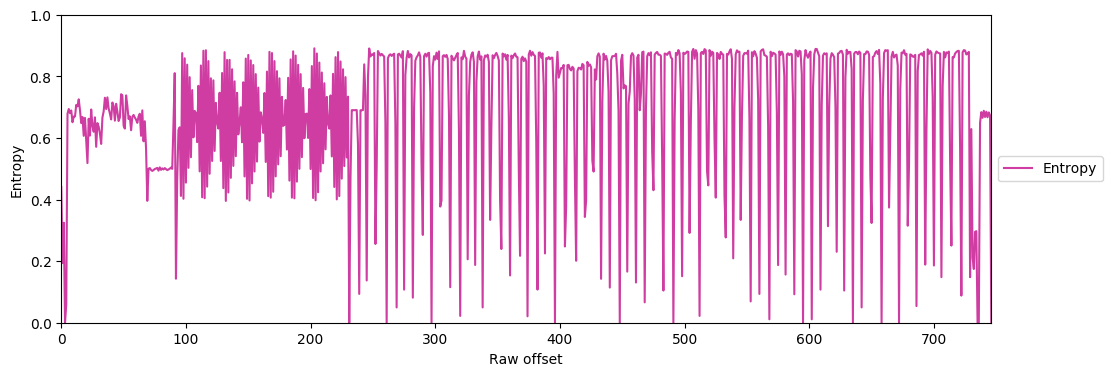
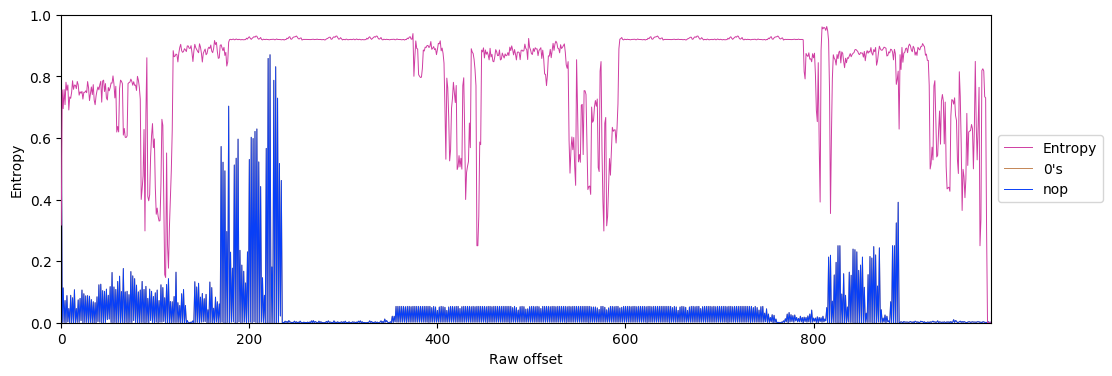
Full file graph working

Changed region(s): [[0.0306, 0.0878, 1.0, 0.9362]]

diff --git a/exeGraph_mpl.py b/exeGraph_mpl.py
@@ -68,6 +68,16 @@ def fix_section_name(section, index):
             s_name = 'unknown_'+str(index)
         return s_name
 
+# Read files as chunks
+def read_f(fh, chunksize=8192):
+    while True:
+        chunk = fh.read(chunksize)
+        if chunk:
+            yield list(chunk)
+        else:
+            break
+
+
 # ## Ent per section
 def section_ent_line(pebin, block_size=100, trend=False):
     # ## blocksize int:   content is divided into blocks, each block is sampled for shannon entropy. More blocks, greater resolution
@@ -138,6 +148,7 @@ def section_byte_occurance_histogram(pebin, fig, ncols=2, ignore_0=True, bins=1,
     # ## log int:       Amount of 'log' to apply to the graph
     # ## ordered bool:  Add an ordered histogram - show overall distribution
 
+
     ignore_0 = int(ignore_0)
 
     for i, section in enumerate(pebin.sections):
@@ -179,42 +190,50 @@ def section_byte_occurance_histogram(pebin, fig, ncols=2, ignore_0=True, bins=1,
     fig.legend(loc='center left', bbox_to_anchor=(1, 0.5))
 
 
-def file_ent(b_array, pebin=None, block_size=100, trend=False):
-
-    data = b_array
-
-    # Calculate the overall ent throughout the file
-    block_len = -(-len(data) // block_size)
+def file_ent(fh, pebin=None, chunksize=100, ibytes={'0\'s':[0], 'ascii':list(range(128))}, trend=False):
 
     shannon_samples = []
+    byte_ranges = dict.fromkeys(ibytes.keys(),[])
+    byte_ranges = {'0s':[], 'nop':[]}   # THIS WORKS!!
 
-    i = 1
-    prev_end = 0
+    i = 0
+
     prev_ent = 0
-    while prev_end <= len(data):
-
-        block_start = prev_end
-        block_end = i * block_len
-
-        real_ent = shannon_ent(data[ block_start : block_end ])
+    for chunk in read_f(fh, chunksize=chunksize):
 
         # Calculate ent
+        real_ent = shannon_ent(chunk)
         ent = statistics.median([real_ent, prev_ent])
         prev_ent = real_ent
         ent = real_ent
         shannon_samples.append(ent)
 
 
-        prev_end = block_end+1
+        # Calculate percentages of given bytes
+        cbytes = Counter(chunk)
+        for label, b_range in ibytes.items():
+
+            occurance = 0
+            for b in b_range:
+                occurance += cbytes[b]
+
+            byte_ranges[label].append(float(occurance)/float(len(chunk)))   ###### THIS ADDS TO THE WRONG RANGES
+
+        print('******** chunk:{}'.format(i))
         i += 1
+
+    # Draw the graphs
+    zorder=99
 
     label = 'Entropy'
     c = section_colour(label)
-    plt.plot(shannon_samples, label=label, c=c)
+    plt.plot(shannon_samples, label=label, c=c, zorder=zorder, linewidth=0.7)
 
 
-    # Get the section offsets and plot on axis
-    # pebin = lief.PE.parse(filename=filename)
+    for label, percentages in byte_ranges.items():
+        zorder -= zorder
+        c = section_colour(label)
+        plt.plot(percentages, label=label, c=c, zorder=zorder, linewidth=0.7)
 
 
 
@@ -228,93 +247,17 @@ def file_ent(b_array, pebin=None, block_size=100, trend=False):
     plt.legend(loc='center left', bbox_to_anchor=(1, 0.5))
 
 
-
-## Occurance per byte
-# def section_byte_occurance_heatmap(pebin):
-#     z = []
-#     y = []
-#     for section in pebin.sections:
-#         row = []
-#         c = Counter(section.content)
-#         for i in range(0, 256):
-#             row.append(c[i])
-#         z.append(row)
-#         y.append(section.name)
-
-#     data = go.Heatmap(
-#         x=['x{:02}'.format(d) for d in range(0, 256)],
-#         y=y,
-#         z=z,
-#         colorscale='Viridis',
-#     )
-
-#     layout = go.Layout(
-#         title='Byte frequency: {}'.format(filename),
-#         xaxis=dict(
-#             title='Byte: x0 to xFF',
-#             ticktext=['x{:02}'.format(d) for d in range(0, 256, 5)],
-#             tickvals=list(range(0, 256, 5)),
-#             tickangle=45,
-#         ),
-#         yaxis=dict(
-#             title='Binary section',
-#             ticktext=[ s.name for s in pebin.sections ],
-#             tickvals=[ s.name for s in pebin.sections ]
-#         )
-#     )
-
-#     return [data], layout
-
-# ## Section size bar chart
-# def section_size_bar(pebin):
-
-#     section_size_bar_raw = go.Bar(
-#         name='Raw size',
-#         x=[section.name for section in pebin.sections],
-#         y=[section.size for section in pebin.sections]
-#     )
-
-#     section_size_bar_virtual = go.Bar(
-#         name='Virtual size',
-#         x=[section.name for section in pebin.sections],
-#         y=[section.virtual_size for section in pebin.sections]
-#     )
-
-#     data = [section_size_bar_raw, section_size_bar_virtual]
-
-#     layout = go.Layout(
-#         barmode='stack',
-#         title='Raw/virtual section sizes: {}'.format(filename),
-#         xaxis=dict(
-#             title='Sections',
-#             zeroline=False
-#         ),
-#         yaxis=dict(
-#             title='Size',
-#             ticklen=5,
-#             nticks=10,
-#             zeroline=False,
-#             type='log',
-#             autorange=True
-#         )
-#     )
-
-#     return data, layout
-
-
-
-
 if __name__ == '__main__':
 
     # ## Input file
     # filename='mal/aa14c8e777-cape'
     # filename='mal/test.exe'
     # filename='mal/Locky.bin.mal'
-    # filename='mal/Shamoon.bin.mal'
+    filename='mal/Shamoon.bin.mal'
     # filename='mal/Win32.Sofacy.A.bin.mal'
     # filename='mal/upxed.exe'
-    filename='mal/cape-9480-d746baede2c7'
-    filename='mal/cape-9472-d69be688e'
+    # filename='mal/cape-9480-d746baede2c7'
+    # filename='mal/cape-9472-d69be688e'
 
 
 
@@ -324,22 +267,25 @@ if __name__ == '__main__':
     fsize = (12,4) # Width, Height
 
 
-    pebin = lief.PE.parse(filename=filename)
 
-
+    # pebin = lief.parse(filepath=filename)
     # plt.figure(figsize=fsize)
     # section_ent_line(pebin, block_size=50, trend=False)
     # plt.savefig(fname='section_ent_line-50.{}'.format(fmt), format=fmt, bbox_inches='tight')
 
 
+
+    # pebin = lief.parse(filepath=filename)
     # fig = plt.figure(figsize=fsize)
     # section_byte_occurance_histogram(pebin, fig, ncols=3, ignore_0=True, bins=1, log=0, ordered=True)
     # fig.savefig(fname='section_byte_occurance_histogram.{}'.format(fmt), format=fmt, bbox_inches='tight')
 
 
 
+
+    fh = open(filename, "rb")
     fig = plt.figure(figsize=fsize)
-    file_ent(b_array=list(open(filename, "rb").read()), block_size=750, trend=False)
+    file_ent(fh=fh, chunksize=1000, ibytes={'0s':[0],'nop':[144]}, trend=False)
     plt.savefig(fname='file_ent.{}'.format(fmt), format=fmt, bbox_inches='tight')
 
 
